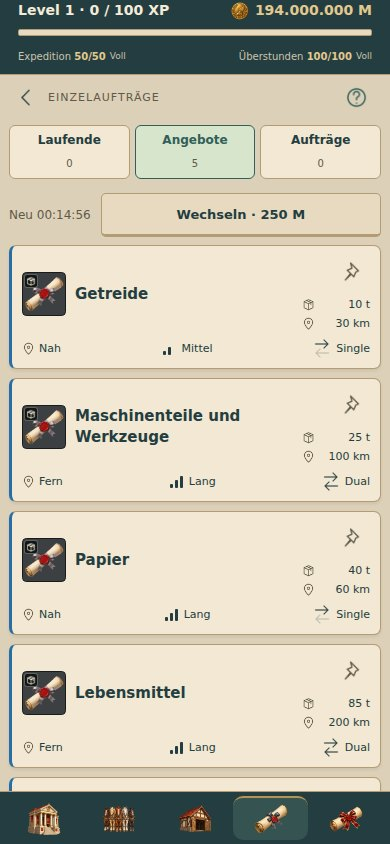
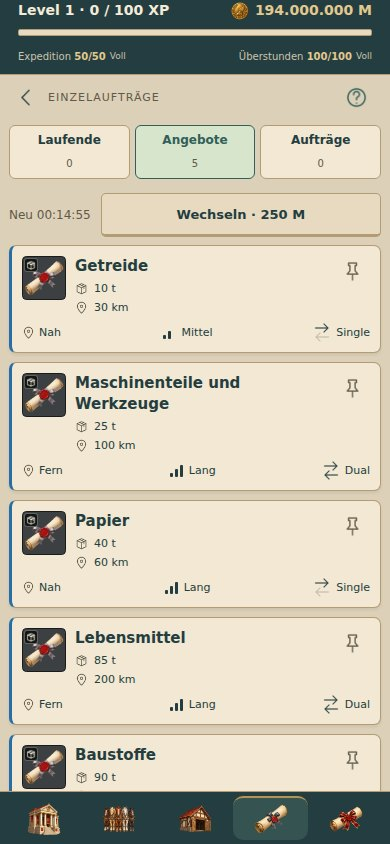
Collect compact offer facts and upright gold hold pins

Changed region(s): [[0.0, 0.2773, 0.9846, 0.955]]

diff --git a/src/Orders.tsx b/src/Orders.tsx
@@ -36,8 +36,10 @@ export function OrderTile({order:o,data,clock,onOpen,onPin,busy=false}:any){
  if(!active&&!done)return <Card style={[styles.offer,styles.compactOffer,{borderLeftColor:o.customer?C.gold:C.rare}]}>
   <Pressable testID={`order-open-${o.id}`} accessibilityRole="button" accessibilityLabel={`${translate(o.cargo)}, ${o.id}, ${translate(o.category==='international'?'Fernverkehr':'Nahverkehr')}, ${translate(o.durationBand||durationBand(o.durationSeconds??o.forecast?.seconds??0))}, ${translate(o.routeType==='dual'?'Dual Way, beladene Hin- und Rückfahrt':'Single Way, beladene Hinfahrt und leere Rückfahrt')}, ${n(o.volume,1)} t, ${n(o.distance)} km`} onPress={()=>onOpen(o.id)} style={StyleSheet.absoluteFill}/>
   <View pointerEvents="none" accessibilityElementsHidden importantForAccessibility="no-hide-descendants">
-   <View style={styles.offerMain}><View style={styles.offerIdentity}><ItemArt id={`order:${o.kind==='private'?'private':'customer'}`} size={44}/><Txt style={[styles.title,{flex:1,minWidth:0}]}>{o.cargo}</Txt></View>
-    <View style={[styles.offerFacts,canPin&&{paddingTop:40}]}><View style={styles.offerFact}><Icon name="orders" size={13} color={C.muted}/><Txt style={styles.factValue}>{n(o.volume,1)} t</Txt></View><View style={styles.offerFact}><Icon name="location" size={13} color={C.muted}/><Txt style={styles.factValue}>{n(o.distance)} km</Txt></View></View>
+   <View style={styles.offerMain}><ItemArt id={`order:${o.kind==='private'?'private':'customer'}`} size={44}/>
+    <View style={[styles.offerCopy,canPin&&styles.pinnableCopy]}><Txt style={styles.title}>{o.cargo}</Txt>
+     <View testID={`order-facts-${o.id}`} style={styles.offerFacts}><View style={styles.offerFact}><Icon name="orders" size={13} color={C.muted}/><Txt style={styles.factValue}>{n(o.volume,1)} t</Txt></View><View style={styles.offerFact}><Icon name="location" size={13} color={C.muted}/><Txt style={styles.factValue}>{n(o.distance)} km</Txt></View></View>
+    </View>
    </View>
    <OrderTraits order={o}/>
    {(o.customer||!o.choices.length)&&<View style={{marginTop:5}}>{o.customer&&<Txt gold style={styles.traitLabel}>{o.customerName}</Txt>}{!o.choices.length&&<Txt muted style={styles.traitLabel}>{unavailable(o)}</Txt>}</View>}
@@ -161,4 +163,4 @@ export function OrderDetail({data,id,busy,clock,onCommand,onBack,onSwitch,modalB
   {done&&reward?<Card><Txt style={[styles.title,{marginBottom:12}]}>Abschlussprämie</Txt>{fact('Münzen',`${n(reward.coins,2)} M`)}{Object.entries(reward.gears||{}).filter(([,amount])=>Number(amount)>0).map(([rarity,amount])=><View key={rarity}><ItemAmount id={`gear:${rarity}`} label={`${data.catalog.rarities.find((r:any)=>r.id===rarity)?.label||rarity}-Zahnräder`} amount={Number(amount)}/></View>)}{reward.companyItems>0&&<ItemAmount id="companyItems" amount={reward.companyItems}/>}{reward.capacityModule&&<ItemAmount id="capacityModules" amount={1}/>}{reward.supplierContacts>0&&<ItemAmount id="supplierContacts" amount={reward.supplierContacts}/>}{!reward.claimedAt?<Btn disabled={busy} onPress={()=>onCommand('claim',{id:o.id})}>Prämie abholen</Btn>:<Txt muted>Abgeholt</Txt>}</Card>:null}
  </>;
 }
-const styles=StyleSheet.create({compactOffer:{position:'relative',padding:10},offerMain:{flexDirection:'row',alignItems:'center',gap:8,minHeight:44},offerIdentity:{flexDirection:'row',alignItems:'center',gap:9,flex:1,minWidth:0},offerFacts:{width:68,flexShrink:0,gap:2},offerFact:{flexDirection:'row',alignItems:'center',justifyContent:'space-between',gap:4},factValue:{fontSize:11,lineHeight:17,textAlign:'right'},pinButton:{position:'absolute',right:6,top:3,width:44,height:44,alignItems:'center',justifyContent:'center',borderRadius:6},traits:{flexDirection:'row',alignItems:'center',justifyContent:'space-between',gap:5,marginTop:7},trait:{flexDirection:'row',alignItems:'center',gap:4,flexShrink:1},traitLabel:{fontSize:11,lineHeight:16},signal:{width:15,height:14,flexDirection:'row',alignItems:'flex-end',gap:2,paddingBottom:1},directions:{height:19,width:18,justifyContent:'center'},tabs:{flexDirection:'row',gap:5,marginBottom:14},tab:{flex:1,minHeight:54,alignItems:'center',justifyContent:'center',gap:2,borderWidth:1,borderColor:C.line,backgroundColor:C.panel,borderRadius:6},activeTab:{backgroundColor:C.greenWash,borderColor:C.accent},tabLabel:{fontSize:12,fontWeight:'700'},ready:{flexDirection:'row',alignItems:'center',gap:3},metrics:{flexDirection:'row',flexWrap:'wrap',gap:6},metric:{width:'48%',minWidth:0,flexDirection:'row',alignItems:'baseline',gap:5},metricLabel:{fontSize:10,lineHeight:15},metricValue:{fontSize:11,lineHeight:16,fontWeight:'700',flexShrink:1},quoteDisclosure:{minHeight:30,flexDirection:'row',alignItems:'center',justifyContent:'space-between',borderTopWidth:1,borderTopColor:C.line,marginTop:5},quoteDetails:{paddingTop:2},possibleRewards:{flexDirection:'row',flexWrap:'wrap',gap:6},possibleItem:{width:44,height:44,alignItems:'center',justifyContent:'center',backgroundColor:C.raised,borderWidth:1,borderRadius:6},possibleLabel:{fontSize:10,lineHeight:14,textAlign:'center'},title:{fontSize:15,fontWeight:'700'},small:{fontSize:12,lineHeight:18},section:{fontSize:13,fontWeight:'700',color:C.muted,marginTop:10,marginBottom:9},offer:{padding:12,backgroundColor:C.panel,borderColor:C.line,borderLeftWidth:3,marginBottom:9},saved:{padding:12,backgroundColor:C.panel,borderColor:C.line},running:{padding:12,backgroundColor:C.greenWash,borderColor:C.accent},refresh:{flexDirection:'row',alignItems:'center',gap:10,marginBottom:8},vehicle:{padding:10,borderWidth:1,borderColor:C.line,borderRadius:10,marginTop:10}});
+const styles=StyleSheet.create({compactOffer:{position:'relative',padding:10},offerMain:{flexDirection:'row',alignItems:'flex-start',gap:9,minHeight:44},offerCopy:{flex:1,minWidth:0},pinnableCopy:{paddingRight:36},offerFacts:{gap:2,marginTop:3},offerFact:{flexDirection:'row',alignItems:'center',gap:6},factValue:{fontSize:11,lineHeight:17},pinButton:{position:'absolute',right:6,top:3,width:44,height:44,alignItems:'center',justifyContent:'center',borderRadius:6},traits:{flexDirection:'row',alignItems:'center',justifyContent:'space-between',gap:5,marginTop:7},trait:{flexDirection:'row',alignItems:'center',gap:4,flexShrink:1},traitLabel:{fontSize:11,lineHeight:16},signal:{width:15,height:14,flexDirection:'row',alignItems:'flex-end',gap:2,paddingBottom:1},directions:{height:19,width:18,justifyContent:'center'},tabs:{flexDirection:'row',gap:5,marginBottom:14},tab:{flex:1,minHeight:54,alignItems:'center',justifyContent:'center',gap:2,borderWidth:1,borderColor:C.line,backgroundColor:C.panel,borderRadius:6},activeTab:{backgroundColor:C.greenWash,borderColor:C.accent},tabLabel:{fontSize:12,fontWeight:'700'},ready:{flexDirection:'row',alignItems:'center',gap:3},metrics:{flexDirection:'row',flexWrap:'wrap',gap:6},metric:{width:'48%',minWidth:0,flexDirection:'row',alignItems:'baseline',gap:5},metricLabel:{fontSize:10,lineHeight:15},metricValue:{fontSize:11,lineHeight:16,fontWeight:'700',flexShrink:1},quoteDisclosure:{minHeight:30,flexDirection:'row',alignItems:'center',justifyContent:'space-between',borderTopWidth:1,borderTopColor:C.line,marginTop:5},quoteDetails:{paddingTop:2},possibleRewards:{flexDirection:'row',flexWrap:'wrap',gap:6},possibleItem:{width:44,height:44,alignItems:'center',justifyContent:'center',backgroundColor:C.raised,borderWidth:1,borderRadius:6},possibleLabel:{fontSize:10,lineHeight:14,textAlign:'center'},title:{fontSize:15,fontWeight:'700'},small:{fontSize:12,lineHeight:18},section:{fontSize:13,fontWeight:'700',color:C.muted,marginTop:10,marginBottom:9},offer:{padding:12,backgroundColor:C.panel,borderColor:C.line,borderLeftWidth:3,marginBottom:9},saved:{padding:12,backgroundColor:C.panel,borderColor:C.line},running:{padding:12,backgroundColor:C.greenWash,borderColor:C.accent},refresh:{flexDirection:'row',alignItems:'center',gap:10,marginBottom:8},vehicle:{padding:10,borderWidth:1,borderColor:C.line,borderRadius:10,marginTop:10}});

diff --git a/docs/ui/offer-cards.md b/docs/ui/offer-cards.md
@@ -2,9 +2,9 @@
 
 Unveröffentlicht im Sammelbranch `collect/transport-upgrades`.
 
-Angebote und gespeicherte Einzelaufträge zeigen Tonnen und Kilometer rechts untereinander. In einer festen Merkmalszeile stehen Location-Symbol plus Nah/Fern, ein bis drei aufsteigende Dauerbalken plus Kurz/Mittel/Lang und zwei gegenläufige Frachtpfeile plus Single/Dual. Bei Single ist der Rückpfeil blass: Die Rückfahrt existiert, erfolgt aber leer. Aktive Einzelaufträge verwenden dieselbe Merkmalszeile.
+Angebote und gespeicherte Einzelaufträge zeigen Tonnen und Kilometer direkt unter dem Warennamen untereinander, neben dem Auftragsbild. In einer festen Merkmalszeile stehen Location-Symbol plus Nah/Fern, ein bis drei aufsteigende Dauerbalken plus Kurz/Mittel/Lang und zwei gegenläufige Frachtpfeile plus Single/Dual. Bei Single ist der Rückpfeil blass: Die Rückfahrt existiert, erfolgt aber leer. Aktive Einzelaufträge verwenden dieselbe Merkmalszeile.
 
-In Angeboten hält oder löst ein separater Pin direkt in der Liste. Gefüllter goldener Pin bedeutet gehalten. Busy-Zustand und die serverseitig vorgegebene Zahl der Halteplätze werden berücksichtigt; Freigeben bleibt bei belegtem Limit möglich. Der Pin hat 44 × 44 dp und ist eine eigene Schaltfläche neben der Auftragsöffnung, sodass er keine Detailnavigation auslöst. Gespeicherte Aufträge und laufende Fahrten haben keinen Haltebutton. Bisherige Regeln für Aktualisierung, Fahrtstart und Rückkehr zum Ursprungsreiter bleiben erhalten.
+In Angeboten hält oder löst ein separater aufrechter, symmetrischer Pin direkt in der Liste. Gefüllter goldener Pin bedeutet gehalten; ungehalten bleibt er ein dezenter Umriss. Busy-Zustand und die serverseitig vorgegebene Zahl der Halteplätze werden berücksichtigt; Freigeben bleibt bei belegtem Limit möglich. Der Pin hat 44 × 44 dp und liegt oben rechts unabhängig vom Inhaltsfluss. Der Titelbereich reserviert seitlich Platz; es gibt keinen zusätzlichen oberen Abstand für den Pin und damit keine zusätzliche Kartenhöhe. Er ist eine eigene Schaltfläche neben der Auftragsöffnung, sodass er keine Detailnavigation auslöst. Gespeicherte Aufträge und laufende Fahrten haben keinen Haltebutton. Bisherige Regeln für Aktualisierung, Fahrtstart und Rückkehr zum Ursprungsreiter bleiben erhalten.
 
 „Nahverkehr“ ersetzt „Regionalverkehr“ als mobile Anzeigeidentität in Kategorien, Aufträgen, Firmenausbau und Hilfe. IDs (`national`), Routen und Wirtschaft bleiben unverändert. Historische Ausgabetexte werden normalisiert, frei gewählte Firmen-/Stadtnamen dabei geschützt. Die gepinnte Web-Grundlage bleibt unverändert. Englische Bezeichnungen und neue zugängliche Texte sind ergänzt.
 
@@ -12,8 +12,9 @@ Vier kleine ursprüngliche technische Icons sind als SVG-Quelle und PNG gebünde
 
 ## Validierung
 
-- TypeScript und 219/219 Tests erfolgreich; drei gezielte Tests prüfen Halteplätze/Klicktrennung, Dauer-/Fahrartsemantik und globale Nahverkehr-Bezeichnung mit geschützten Profilnamen.
+- TypeScript und 219/219 Tests erfolgreich; drei gezielte Tests prüfen Halteplätze/Klicktrennung, Busy-Zustand, goldene Füllung, Dauer-/Fahrartsemantik und globale Nahverkehr-Bezeichnung mit geschützten Profilnamen.
 - Tatsächliche App mit lokalem Spielkern bei 320/360/390/430 dp: alle Bilder geladen, kein horizontaler Überlauf oder JavaScript-Fehler; langer Warenname geprüft.
+- Gewicht/Entfernung bei allen vier Breiten unter dem Namen und linksbündig im selben Textbereich geprüft. Der Faktenblock ist ohne Pin-Zugabe 36 dp hoch.
 - Halten/Freigeben in der Liste ausgeführt; belegter Halteplatz deaktiviert andere Pins. Beide Pinaktionen lassen die Liste geöffnet.
 - Auftragsdetails und Fahrzeugauswahl geöffnet, Fahrt gestartet: Rückkehr zu Angebote bleibt erhalten.
 - Android-Export erfolgreich. Kein physischer Gerätetest in dieser lokalen Prüfung.
